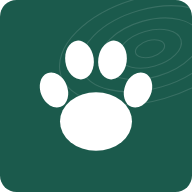
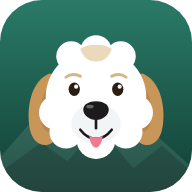
Nové ikony aplikace, úvodní animace načítání, rychlejší aktualizace
Claude-Session: https://claude.ai/code/session_018ZGRwYT42o7cFaqxzkX1KW

diff --git a/index.html b/index.html
@@ -14,8 +14,32 @@
   <link rel="preload" href="fonts/bricolage-latin.woff2" as="font" type="font/woff2" crossorigin>
   <link rel="stylesheet" href="css/fonts.css">
   <link rel="stylesheet" href="css/style.css">
+  <style>
+    /* úvodní obrazovka s animací – nezávislá na ostatních stylech, ať je vidět hned */
+    #boot { position: fixed; inset: 0; z-index: 9999; display: flex; flex-direction: column; align-items: center; justify-content: center; gap: 22px;
+      background: linear-gradient(#2a7a67, #123f35); color: #fff; transition: opacity .35s ease, visibility .35s; font-family: system-ui, sans-serif; }
+    #boot.done { opacity: 0; visibility: hidden; }
+    #boot img { width: 112px; height: 112px; border-radius: 28px; box-shadow: 0 10px 30px rgba(0,0,0,.35); animation: bootBob 1.2s ease-in-out infinite; }
+    #boot .bootsteps { display: flex; gap: 14px; height: 30px; }
+    #boot .bootsteps svg { width: 26px; height: 26px; fill: #fff; opacity: 0; animation: bootStep 1.6s ease-in-out infinite; }
+    #boot .bootsteps svg:nth-child(odd) { transform: translateY(8px) rotate(-14deg); }
+    #boot .bootsteps svg:nth-child(even) { transform: translateY(-4px) rotate(14deg); }
+    #boot .bootsteps svg:nth-child(2) { animation-delay: .25s; } #boot .bootsteps svg:nth-child(3) { animation-delay: .5s; } #boot .bootsteps svg:nth-child(4) { animation-delay: .75s; }
+    #boot b { font-size: 1.4rem; letter-spacing: -.01em; }
+    #boot p { margin: 0; font-size: .9rem; opacity: .8; max-width: 260px; text-align: center; }
+    @keyframes bootBob { 50% { transform: translateY(-8px) scale(1.03); } }
+    @keyframes bootStep { 0% { opacity: 0; } 25%, 60% { opacity: .95; } 100% { opacity: 0; } }
+    @media (prefers-reduced-motion: reduce) { #boot img, #boot .bootsteps svg { animation: none; opacity: 1; } }
+  </style>
 </head>
 <body>
+  <div id="boot" role="status" aria-live="polite">
+    <img src="icons/icon-192.png" width="112" height="112" alt="">
+    <div class="bootsteps"><svg viewBox="0 0 24 24" aria-hidden="true"><ellipse cx="12" cy="16" rx="4.6" ry="3.8"/><ellipse cx="5.6" cy="11" rx="1.9" ry="2.5"/><ellipse cx="9.4" cy="6.8" rx="2" ry="2.7"/><ellipse cx="14.6" cy="6.8" rx="2" ry="2.7"/><ellipse cx="18.4" cy="11" rx="1.9" ry="2.5"/></svg><svg viewBox="0 0 24 24" aria-hidden="true"><ellipse cx="12" cy="16" rx="4.6" ry="3.8"/><ellipse cx="5.6" cy="11" rx="1.9" ry="2.5"/><ellipse cx="9.4" cy="6.8" rx="2" ry="2.7"/><ellipse cx="14.6" cy="6.8" rx="2" ry="2.7"/><ellipse cx="18.4" cy="11" rx="1.9" ry="2.5"/></svg><svg viewBox="0 0 24 24" aria-hidden="true"><ellipse cx="12" cy="16" rx="4.6" ry="3.8"/><ellipse cx="5.6" cy="11" rx="1.9" ry="2.5"/><ellipse cx="9.4" cy="6.8" rx="2" ry="2.7"/><ellipse cx="14.6" cy="6.8" rx="2" ry="2.7"/><ellipse cx="18.4" cy="11" rx="1.9" ry="2.5"/></svg><svg viewBox="0 0 24 24" aria-hidden="true"><ellipse cx="12" cy="16" rx="4.6" ry="3.8"/><ellipse cx="5.6" cy="11" rx="1.9" ry="2.5"/><ellipse cx="9.4" cy="6.8" rx="2" ry="2.7"/><ellipse cx="14.6" cy="6.8" rx="2" ry="2.7"/><ellipse cx="18.4" cy="11" rx="1.9" ry="2.5"/></svg></div>
+    <b>Cipísek</b>
+    <p id="bootMsg">Načítám…</p>
+  </div>
+  <script>setTimeout(function () { var b = document.getElementById('boot'), m = document.getElementById('bootMsg'); if (b && !b.classList.contains('done') && m) m.textContent = 'Načítání trvá dlouho. Zavři aplikaci a otevři ji znovu.'; }, 9000);</script>
   <div id="app">
     <header class="topbar">
       <a class="brand" href="#/dnes" aria-label="Domů">

diff --git a/js/app.js b/js/app.js
@@ -36,6 +36,14 @@ function buildChrome() {
 }
 function updateBrand() { $('#brand-name').textContent = store.getMeta().name || 'Cipísek'; }
 
+/** Skryje úvodní animaci (nejdřív po 800 ms, ať se stihne ukázat). */
+function hideBoot() {
+  const b = document.getElementById('boot');
+  if (!b) return;
+  const wait = Math.max(0, 800 - performance.now());
+  setTimeout(() => { b.classList.add('done'); setTimeout(() => b.remove(), 500); }, wait);
+}
+
 async function route() {
   const hash = location.hash.replace(/^#\/?/, '');
   const name = hash.split('?')[0] || 'dnes';
@@ -46,7 +54,7 @@ async function route() {
   current?.destroy?.();
   current = mod;
   const root = $('#view');
-  root.innerHTML = '';
+  root.innerHTML = '<div class="loader" role="status" aria-label="Načítám"><svg viewBox="0 0 24 24"><ellipse cx="12" cy="16" rx="4.6" ry="3.8"/><ellipse cx="5.6" cy="11" rx="1.9" ry="2.5"/><ellipse cx="9.4" cy="6.8" rx="2" ry="2.7"/><ellipse cx="14.6" cy="6.8" rx="2" ry="2.7"/><ellipse cx="18.4" cy="11" rx="1.9" ry="2.5"/></svg></div>';
   root.className = 'view view-' + (ROUTES[name] ? name : 'dnes');
   window.scrollTo(0, 0);
   await mod.render(root);
@@ -163,6 +171,8 @@ function initPwa() {
   let reloaded = false;
   navigator.serviceWorker.addEventListener('controllerchange', () => {
     if (!hadController || reloaded) return;
+    // nepřerušuj nahrávání procházky ani rozepsaný formulář; v tom případě stačí příští otevření
+    if (tracker.isActive() || hasOpenSheet()) return;
     reloaded = true;
     location.reload();
   });
@@ -177,6 +187,7 @@ initPwa();
 const joining = handleJoin();
 addEventListener('hashchange', route);
 await route();
+hideBoot();
 if (!joining) welcome();
 sync.start();
 startReminders();

diff --git a/sw.js b/sw.js
@@ -1,7 +1,7 @@
 /* sw.js – service worker: aplikace funguje offline.
    Strategie: stejný původ = „cache first + obnova na pozadí“, vše ostatní (mapové dlaždice,
    routing, Firebase) jde přímo na síť. Při změně souborů ZVYŠ VERSION, ať si zařízení stáhnou novou verzi. */
-const VERSION = 'v8';
+const VERSION = 'v9';
 const CACHE = `cipisek-${VERSION}`;
 const SHELL = [
   './', 'index.html', 'manifest.webmanifest',
@@ -19,6 +19,7 @@ const SHELL = [
 ];
 
 self.addEventListener('install', (e) => {
+  self.skipWaiting();   // nová verze se použije hned, bez čekání na zavření aplikace
   e.waitUntil(caches.open(CACHE).then((c) => c.addAll(SHELL.map((u) => new Request(u, { cache: 'reload' })))));
 });
 

diff --git a/css/style.css b/css/style.css
@@ -635,3 +635,8 @@ a.btn { text-decoration: none; }
 .deal-p s { color: var(--ink-2); font-size: 0.82rem; }
 .late { color: var(--bad); }
 .warn { background: var(--warn-soft); color: var(--warn-ink); padding: 10px 12px; border-radius: var(--r-ctl); font-size: 0.9rem; }
+
+/* ---------- načítání ---------- */
+.loader { display: grid; place-items: center; min-height: 40vh; }
+.loader svg { width: 44px; height: 44px; fill: var(--primary); animation: pawPulse 0.9s ease-in-out infinite; }
+@keyframes pawPulse { 50% { transform: scale(1.25) rotate(-8deg); opacity: 0.55; } }
